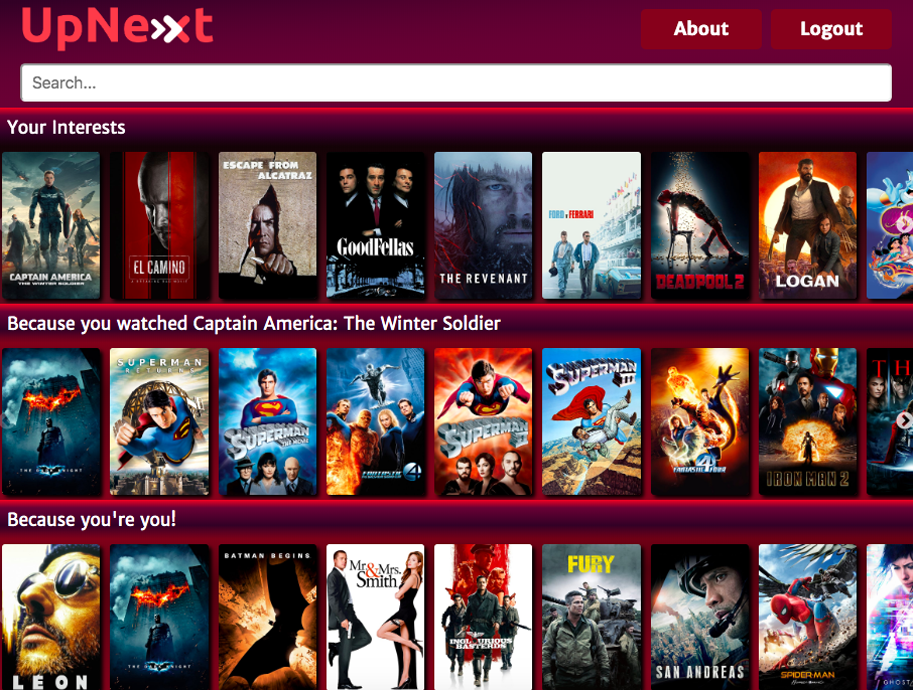
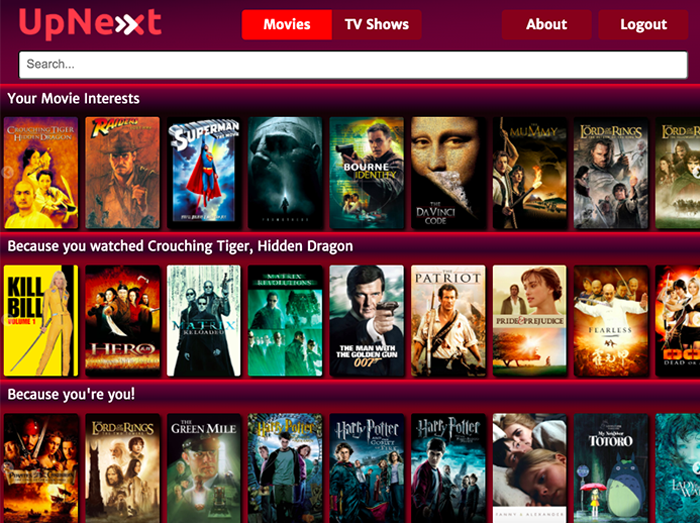
updated resume and upnext with v2.0

diff --git a/index.html b/index.html
@@ -205,10 +205,16 @@
 								</div>
 								<div class="project-container two">
 									<p class="item-caption">
-										UpNext is a one-stop-shop app that allows you to both log movies that you are interested in and then automatically get
+										UpNext is a one-stop-shop app that allows you to both log movies and TV shows* and that you are interested in and then automatically get
 										provided with recommendations based on these interests. No longer will you have to waste time on Google searching for
 										what's next, because we'll show you what's UpNext! In the future, UpNext will take into account all of your interests and provide aggregate
-										recommendations, with media types being expanded to movies, shows, games, and music.
+										recommendations, with media types being expanded to games and music.
+										<br />
+										<sub>*Added with UpNext 2.0</sub>
+										<!-- <br />
+										UPDATE (6/21/2020): 
+										<br />
+										UpNext 2.0 now features TV shows. Add primetime's newest hit or Netflix's latest binge to your interests and discover new series to add to your queue! -->
 									</p>
 									<article class="item project">
 										<header>
@@ -229,16 +235,20 @@
 										<div id="images2">
 											<img class="image fit" src="images/upnext/details.png" alt="" />
 
-											<a href="#" class="image fit"><img src="images/upnext/details.png" alt="" /></a>
-											<a href="#" class="image fit"><img src="images/upnext/search.png" alt="" /></a>
-											<a href="#" class="image fit"><img src="images/upnext/browse_desktop.png" alt="" /></a>
+											<a href="#" class="image fit"><img src="images/upnext/details.png" alt="details" /></a>
+											<a href="#" class="image fit"><img src="images/upnext/search.png" alt="search" /></a>
+											<a href="#" class="image fit"><img src="images/upnext/browse_desktop_tv.png" alt="browse" /></a>
+											<a href="#" class="image fit"><img src="images/upnext/browse_desktop.png" alt="browse" /></a>
 											
 										</div>
 										<header class="header-two">
 											<h3>
-												<a href="https://upnext-aa.herokuapp.com/" target="_blank">Live</a>
+												<a href="https://upnext-2v.herokuapp.com/" target="_blank">Live</a>
 												/
-												<a href="https://github.com/MannanK/UpNext" target="_blank">Repo</a>
+												<a href="https://github.com/sswoodruff89/UpNextV2" target="_blank">Repo</a>
+												<!-- <a href="https://upnext-aa.herokuapp.com/" target="_blank">Live</a>
+												/
+												<a href="https://github.com/MannanK/UpNext" target="_blank">Repo</a> -->
 											
 											</h3>
 										</headerclass="header-two">

diff --git a/assets/css/main.css b/assets/css/main.css
@@ -1939,18 +1939,22 @@ input, select, textarea {
     animation-name: multiple-image-crossfade;
     animation-timing-function: ease-in-out;
     animation-iteration-count: infinite;
-	animation-duration: 12s;
+	animation-duration: 16s;
 }
 
 #images2 a:nth-of-type(1) {
-	animation-delay: 7.5s;
+	animation-delay: 11.5s;
 }
 
 #images2 a:nth-of-type(2) {
-	animation-delay: 3.5s;
+	animation-delay: 7.5s;
 }
 
 #images2 a:nth-of-type(3) {
+	animation-delay: 3.5s;
+}
+
+#images2 a:nth-of-type(4) {
 	animation-delay: .5s;
 }
 
